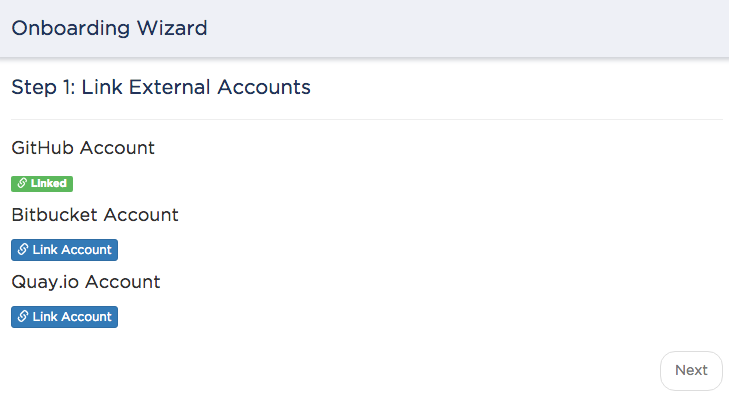
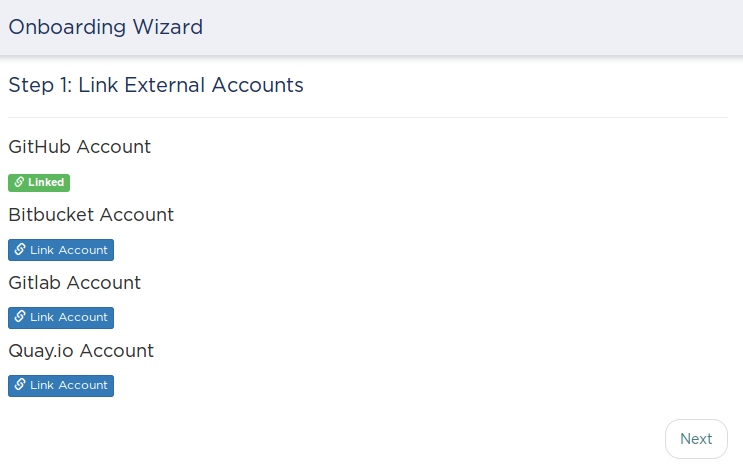
Feature/gitlab support (#98)
* Updating docs with GitLab
* GitLab support

diff --git a/app/scripts/controllers/authentication.js b/app/scripts/controllers/authentication.js
@@ -67,6 +67,21 @@ angular.module('dockstore.ui')
           );
       };
 
+      $scope.registerGitlabToken = function(userId, accessToken) {
+        return TokenService.registerGitlabToken(userId, accessToken)
+          .then(
+            function(token) {
+              return token;
+            },
+            function(response) {
+              $scope.errorMsg =
+                '[HTTP ' + response.status + '] ' + response.statusText + '. ' +
+                'Error registering Gitlab token.';
+              return $q.reject(response);
+            }
+          );
+      };
+
       $scope.refreshUserContainers = function(userId) {
         return ContainerService.refreshUserContainers(userId)
           .then(
@@ -97,6 +112,21 @@ angular.module('dockstore.ui')
           var bitbucketToken = $location.url().match(bitbucketTokenRegExp);
           if (bitbucketToken) {
             $scope.registerBitbucketToken($scope.userObj.id, bitbucketToken[1])
+              .then(
+                function() {
+                  $window.location.href = '/onboarding';
+                }
+              );
+          } else {
+            $window.location.href = '/login';
+          }
+          break;
+        case 'gitlab.com':
+          $scope.providerName = 'Gitlab';
+          var gitlabTokenRegExp = /code=([a-zA-Z0-9]*)/;
+          var gitlabToken = $location.url().match(gitlabTokenRegExp);
+          if (gitlabToken) {
+            $scope.registerGitlabToken($scope.userObj.id, gitlabToken[1])
               .then(
                 function() {
                   $window.location.href = '/onboarding';

diff --git a/app/scripts/services/tokenservice.js b/app/scripts/services/tokenservice.js
@@ -62,6 +62,22 @@ angular.module('dockstore.ui')
         });
       };
 
+      this.registerGitlabToken = function(userId, accessToken) {
+        return $q(function(resolve, reject) {
+          $http({
+            method: 'GET',
+            url: WebService.API_URI + '/auth/tokens/gitlab.com/',
+            params: {
+              code: accessToken
+            }
+          }).then(function(response) {
+            resolve(response.data);
+          }, function(response) {
+            reject(response);
+          });
+        });
+      };
+
       this.registerQuayIOToken = function(userId, accessToken) {
         return $q(function(resolve, reject) {
           $http({
@@ -117,7 +133,8 @@ angular.module('dockstore.ui')
                 dockstore: false,
                 github: false,
                 bitbucket: false,
-                quayio: false
+                quayio: false,
+                gitlab: false
               };
               for (var i = 0; i < tokens.length; i++) {
                 switch (tokens[i].tokenSource) {
@@ -132,6 +149,9 @@ angular.module('dockstore.ui')
                     break;
                   case 'quay.io':
                     tokenStatusSet.quayio = true;
+                    break;
+                  case 'gitlab.com':
+                    tokenStatusSet.gitlab = true;
                     break;
                 }
               }

diff --git a/app/templates/registercontainer.html b/app/templates/registercontainer.html
@@ -70,6 +70,11 @@
                         Bitbucket
                       </a>
                     </li>
+                    <li>
+                      <a href ng-click="containerObj.scrProvider = 'GitLab'">
+                        GitLab
+                      </a>
+                    </li>
                   </ul>
                 </div>
                 <input
@@ -79,7 +84,7 @@
                     ng-model="containerObj.gitPath"
                     ng-minlength="3"
                     ng-maxlength="128"
-                    ng-pattern="/^([a-zA-Z0-9]+([-_][a-zA-Z0-9]+)*)\/([a-zA-Z0-9]+([-_][a-zA-Z0-9]+)*)$/i"
+                    ng-pattern="/^([a-zA-Z0-9]+([-_\.][a-zA-Z0-9]+)*)\/([a-zA-Z0-9]+([-_\.][a-zA-Z0-9]+)*)$/i"
                     required
                     data-toggle="tooltip"
                     title="Git Repository path."
@@ -204,7 +209,7 @@
                     ng-model="containerObj.imagePath"
                     ng-minlength="3"
                     ng-maxlength="128"
-                    ng-pattern="/^(([a-zA-Z0-9]+([-_][a-zA-Z0-9]+)*)|_)\/([a-zA-Z0-9]+([-_][a-zA-Z0-9]+)*)$/i"
+                    ng-pattern="/^(([a-zA-Z0-9]+([-_\.][a-zA-Z0-9]+)*)|_)\/([a-zA-Z0-9]+([-_\.][a-zA-Z0-9]+)*)$/i"
                     required
                     data-toggle="tooltip"
                     title="Docker Image Registry path."

diff --git a/app/scripts/services/formatting.js b/app/scripts/services/formatting.js
@@ -71,6 +71,8 @@ angular.module('dockstore.ui')
           return 'GITHUB';
         } else if (gitUrl.indexOf('bitbucket.org') !== -1) {
           return 'BITBUCKET';
+        } else if (gitUrl.indexOf('gitlab.com') !== -1) {
+          return 'GITLAB';
         } else {
           return null;
         }
@@ -82,6 +84,8 @@ angular.module('dockstore.ui')
             return 'GitHub';
           case 'BITBUCKET':
             return 'Bitbucket';
+          case 'GITLAB':
+            return 'GitLab';
           default:
             return 'Unknown';
         }
@@ -100,6 +104,9 @@ angular.module('dockstore.ui')
           case 'BITBUCKET':
             gitWebUrl = 'https://bitbucket.org/';
             break;
+          case 'GITLAB':
+            gitWebUrl = 'https://gitlab.com/';
+            break;
           default:
             return null;
         }
@@ -116,6 +123,9 @@ angular.module('dockstore.ui')
             break;
           case 'BITBUCKET':
             gitWebUrl = 'https://bitbucket.org/';
+            break;
+          case 'GITLAB':
+            gitWebUrl = 'https://gitlab.com/';
             break;
           default:
             return null;

diff --git a/app/templates/registerworkflow.html b/app/templates/registerworkflow.html
@@ -66,8 +66,13 @@
                       </a>
                     </li>
                     <li>
-                      <a href ng-click="workflowObj.scrProvider = 'Bitbucket'">
-                        Bitbucket
+                    <a href ng-click="workflowObj.scrProvider = 'Bitbucket'">
+                      Bitbucket
+                    </a>
+                  </li>
+                    <li>
+                      <a href ng-click="workflowObj.scrProvider = 'GitLab'">
+                        GitLab
                       </a>
                     </li>
                   </ul>
@@ -79,7 +84,7 @@
                   ng-model="workflowObj.gitPath"
                   ng-minlength="3"
                   ng-maxlength="128"
-                  ng-pattern="/^([a-zA-Z0-9]+([-_][a-zA-Z0-9]+)*)\/([a-zA-Z0-9]+([-_][a-zA-Z0-9]+)*)$/i"
+                  ng-pattern="/^([a-zA-Z0-9]+([-_\.][a-zA-Z0-9]+)*)\/([a-zA-Z0-9]+([-_\.][a-zA-Z0-9]+)*)$/i"
                   required
                   data-toggle="tooltip"
                   title="Git Repository path."

diff --git a/app/scripts/controllers/workflowdetails.js b/app/scripts/controllers/workflowdetails.js
@@ -535,6 +535,8 @@ angular.module('dockstore.ui')
           return 'GitHub';
         } else if (gitUrl.indexOf('bitbucket.org') !== -1) {
           return 'Bitbucket';
+        } else if (gitUrl.indexOf('gitlab.com') !== -1) {
+          return 'Gitlab';
         } else {
           return null;
         }
@@ -545,6 +547,8 @@ angular.module('dockstore.ui')
           return 'https://github.com/' + organization + '/' + repository;
         } else if (registry.toLowerCase() === "bitbucket") {
           return 'https://bitbucket.org/' + organization + '/' + repository;
+        } else if (registry.toLowerCase() === "gitlab") {
+          return 'https://gitlab.com/' + organization + '/' + repository;
         } else {
           return null;
         }

diff --git a/app/views/onboarding.html b/app/views/onboarding.html
@@ -65,6 +65,20 @@
           </button>
         </div>
 
+        <h4>Gitlab Account</h4>
+        <div ng-show="tokenStatusSet.gitlab">
+          <span class="label label-success">
+            <span class="glyphicon glyphicon-link"></span> Linked
+          </span>
+        </div>
+        <div ng-show="!tokenStatusSet.gitlab">
+          <button class="btn btn-primary btn-xs"
+                  ng-click="linkGitlabAccount()"
+                  ng-disabled="registeringToken">
+            <span class="glyphicon glyphicon-link"></span> Link Account
+          </button>
+        </div>
+
         <h4>Quay.io Account</h4>
         <div ng-show="tokenStatusSet.quayio">
           <span class="label label-success">

diff --git a/app/views/accounts.html b/app/views/accounts.html
@@ -73,6 +73,18 @@
         </button>
       </div>
 
+      <h4>Gitlab Account</h4>
+      <div ng-show="tokenStatusSet.gitlab">
+        <span class="label label-success">
+          <span class="glyphicon glyphicon-link"></span> Linked
+        </span>
+      </div>
+      <div ng-show="!tokenStatusSet.gitlab">
+        <button class="btn btn-primary btn-xs" ng-click="linkGitlabAccount()">
+          <span class="glyphicon glyphicon-link"></span> Link Account
+        </button>
+      </div>
+
       <h4>Quay.io Account</h4>
       <div ng-show="tokenStatusSet.quayio">
         <span class="label label-success">

diff --git a/app/scripts/controllers/accounts.js b/app/scripts/controllers/accounts.js
@@ -62,6 +62,13 @@ angular.module('dockstore.ui')
           '&scope=' + WebService.QUAYIO_SCOPE;
       };
 
+      $scope.linkGitlabAccount = function() {
+        $window.location.href = WebService.GITLAB_AUTH_URL +
+          '?client_id=' + WebService.GITLAB_CLIENT_ID +
+          '&redirect_uri=' + WebService.GITLAB_REDIRECT_URI +
+          '&response_type=code';
+      };
+
       TokenService.getUserTokenStatusSet($scope.userObj.id)
         .then(
           function(tokenStatusSet) {

diff --git a/app/scripts/controllers/onboarding.js b/app/scripts/controllers/onboarding.js
@@ -82,6 +82,13 @@ angular.module('dockstore.ui')
           '&scope=' + WebService.QUAYIO_SCOPE;
       };
 
+      $scope.linkGitlabAccount = function() {
+        $window.location.href = WebService.GITLAB_AUTH_URL +
+          '?client_id=' + WebService.GITLAB_CLIENT_ID +
+          '&redirect_uri=' + WebService.GITLAB_REDIRECT_URI +
+          '&response_type=code';
+      };
+
       TokenService.getUserTokenStatusSet($scope.userObj.id)
         .then(
           function(tokenStatusSet) {

diff --git a/app/templates/validation/workflows/gitpath.html b/app/templates/validation/workflows/gitpath.html
@@ -24,5 +24,5 @@
   Source Code Repository Path is too long. (Max 128 characters.)
 </p>
 <p ng-message="pattern">
-  The namespace and name of the Git repository, separated by a '/'. Currently, only GitHub and Bitbucket are supported third-party platforms.
+  The namespace and name of the Git repository, separated by a '/'. Currently, only GitHub, Bitbucket, and GitLab are supported third-party platforms.
 </p>

diff --git a/app/templates/validation/containers/gitpath.html b/app/templates/validation/containers/gitpath.html
@@ -24,5 +24,5 @@
   Source Code Repository Path is too long. (Max 128 characters.)
 </p>
 <p ng-message="pattern">
-  The namespace and name of the Git repository, separated by a '/'. Currently, only GitHub and Bitbucket are supported third-party platforms.
+  The namespace and name of the Git repository, separated by a '/'. Currently, only GitHub, Bitbucket and GitLab are supported third-party platforms.
 </p>
